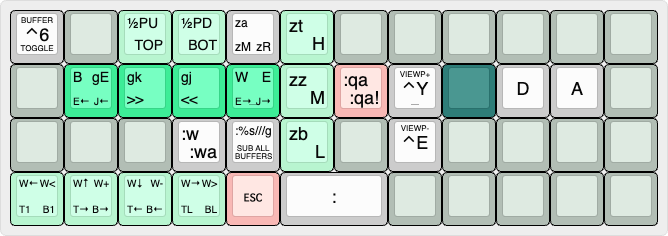
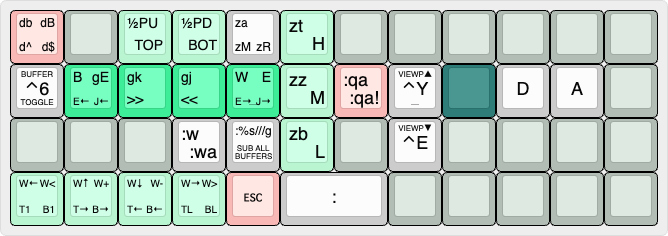
Added semantic deletion key for VIM layers; fixed LOWER diagram; docs updated

Changed region(s): [[0.0, 0.0297, 0.1198, 0.5042], [0.5988, 0.5042, 0.6587, 0.5636], [0.5988, 0.2966, 0.6587, 0.3263]]

diff --git a/rgb.c b/rgb.c
@@ -245,11 +245,11 @@ bool rgb_matrix_indicators_user(void) {
          * ┌─────────┬─────────┬─────────┬─────────┬─────────┬─────────┬─────────┬─────────┬─────────┬─────────┬─────────┬─────────┐
          * │   CUT   │UNDO REDO│  PASTE  │  COPY   │         │         │ «|» ‹|› │ SEL ALL │  COPY   │  PASTE  │UNDO REDO│   CUT   │
          * ├─────────┼─────────┼─────────┼─────────┼─────────┼─────────┼─────────┼─────────┼─────────┼─────────┼─────────┼─────────┤
-         * │    °    │    \    │ ! ¡ ◌̃ ◌̈ │    _    │<<HOLD>> │         │ ? ¿ ◌̀ ◌́ │    ←    │    ↓    │    ↑    │    →    │  ZOOM+  │
+         * │    °    │    \    │ ! ¡ ◌̃ ◌̈ │    _    │<<HOLD>> │AppSwitch│ ? ¿ ◌̀ ◌́ │    ←    │    ↓    │    ↑    │    →    │  ZOOM+  │
          * ├─────────┼─────────┼─────────┼─────────┼─────────┼─────────┼─────────┼─────────┼─────────┼─────────┼─────────┼─────────┤
          * │         │         │         │         │         │         │ ◌̂ ◌̄ ◌̆ ◌̌ │DESKTOP ←│DESKTOP →│  TAB ←  │  TAB →  │  ZOOM-  │
          * ├─────────┼─────────┼─────────┼─────────┼─────────┼─────────┴─────────┼─────────┼─────────┼─────────┼─────────┼─────────┤
-         * │         │         │         │         │         │   -       –   —   │ , ; | & │         │         │         │ ZOOM RS │
+         * │         │         │         │         │         │   -       –   —   │ , ; | & │         │    ⇤    │    ⇥    │ ZOOM RS │
          * └─────────┴─────────┴─────────┴─────────┴─────────┴───────────────────┴─────────┴─────────┴─────────┴─────────┴─────────┘
          */
         case _ARR_R:
@@ -267,14 +267,14 @@ bool rgb_matrix_indicators_user(void) {
          * ┌─────────┬─────────┬─────────┬─────────┬─────────┬─────────┬─────────┬─────────┬─────────┬─────────┬─────────┬─────────┐
          * │   CUT   │UNDO REDO│  PASTE  │  COPY   │ SEL ALL │ «|» ‹|› │         │         │  COPY   │  PASTE  │UNDO REDO│   CUT   │
          * ├─────────┼─────────┼─────────┼─────────┼─────────┼─────────┼─────────┼─────────┼─────────┼─────────┼─────────┼─────────┤
-         * │  ZOOM+  │    ←    │    ↑    │    ↓    │    →    │ ? ¿ ◌̀ ◌́ │         │ <<HOLD>>│    _    │ ! ¡ ◌̃ ◌̈ │    \    │    °    │
+         * │  ZOOM+  │    ←    │    ↑    │    ↓    │    →    │ ? ¿ ◌̀ ◌́ │AppSwitch│ <<HOLD>>│    _    │ ! ¡ ◌̃ ◌̈ │    \    │    °    │
          * ├─────────┼─────────┼─────────┼─────────┼─────────┼─────────┼─────────┼─────────┼─────────┼─────────┼─────────┼─────────┤
          * │  ZOOM-  │  TAB ←  │  TAB →  │DESKTOP ←│DESKTOP →│ ◌̂ ◌̄ ◌̆ ◌̌ │         │         │         │         │         │         │
          * ├─────────┼─────────┼─────────┼─────────┼─────────┼─────────┴─────────┼─────────┼─────────┼─────────┼─────────┼─────────┤
-         * │ ZOOM RS │         │         │         │ , ; | & │   -       –   —   │         │         │         │         │         │
+         * │ ZOOM RS │    ⇤    │    ⇥    │         │ , ; | & │   -       –   —   │         │         │         │         │         │
          * └─────────┴─────────┴─────────┴─────────┴─────────┴───────────────────┴─────────┴─────────┴─────────┴─────────┴─────────┘
          */
-        case _ARR_L:
+       case _ARR_L:
             rgb_off();
             // Held Key: Right Index Finger (Home Row)
             set_layer_key_color(LED_ROW1_RIGHT_INDEX);
@@ -287,9 +287,9 @@ bool rgb_matrix_indicators_user(void) {
 
         /* (Neo)Vim (RHS): Hold Left Middle Finger on Home Row
          * ┌─────────┬─────────┬─────────┬─────────┬─────────┬─────────┬─────────┬─────────┬─────────┬─────────┬─────────┬─────────┐
-         * │         │         │         │         │         │         │ zt    H │za  zM zR│ ½PD BOT │ ½PU TOP │         │ BUF TOGL│
+         * │         │         │         │         │         │         │ zt    H │za  zM zR│ ½PD BOT │ ½PU TOP │         │ DEL bB^$│
          * ├─────────┼─────────┼─────────┼─────────┼─────────┼─────────┼─────────┼─────────┼─────────┼─────────┼─────────┼─────────┤
-         * │         │    A    │    D    │<<HOLD>> │VIEWPORT+│:qa  :qa!│ zz    M │B gE E←J←│ gj  <<  │ gk  >>  │W E E→ J→│         │
+         * │         │    A    │    D    │<<HOLD>> │VIEWPORT+│:qa  :qa!│ zz    M │B gE E←J←│ gj   << │ gk   >> │W E E→ J→│ BUF TOGL│
          * ├─────────┼─────────┼─────────┼─────────┼─────────┼─────────┼─────────┼─────────┼─────────┼─────────┼─────────┼─────────┤
          * │         │         │         │         │VIEWPORT-│         │ zb    L │ :%s///g │ :w  :wa │         │         │         │
          * ├─────────┼─────────┼─────────┼─────────┼─────────┼─────────┴─────────┼─────────┼─────────┼─────────┼─────────┼─────────┤
@@ -297,7 +297,7 @@ bool rgb_matrix_indicators_user(void) {
          * └─────────┴─────────┴─────────┴─────────┴─────────┴───────────────────┴─────────┴─────────┴─────────┴─────────┴─────────┘
          * Bottom row: Move Vim window splits (Tap), resize (2xTap), change buffers (Hold), change tabs (Tap+Hold)
          */
-        case _VIM_R:
+       case _VIM_R:
             rgb_off();
             // Held Key: Left Middle Finger (Home Row)
             set_layer_key_color(LED_ROW1_LEFT_MIDDLE);
@@ -312,9 +312,9 @@ bool rgb_matrix_indicators_user(void) {
 
         /* (Neo)Vim (LHS): Hold Right Middle Finger on Home Row
          * ┌─────────┬─────────┬─────────┬─────────┬─────────┬─────────┬─────────┬─────────┬─────────┬─────────┬─────────┬─────────┐
-         * │ BUF TOGL│         │ ½PU TOP │ ½PD BOT │za  zM zR│ zt    H │         │         │         │         │         │         │
+         * │ DEL bB^$│         │ ½PU TOP │ ½PD BOT │za  zM zR│ zt    H │         │         │         │         │         │         │
          * ├─────────┼─────────┼─────────┼─────────┼─────────┼─────────┼─────────┼─────────┼─────────┼─────────┼─────────┼─────────┤
-         * │         │h Ed← Ju←│ gk   >> │ gj   << │l Ed→ Jp→│ zz    M │:qa  :qa!│VIEWPORT+│ <<HOLD>>│    D    │    A    │         │
+         * │ BUF TOGL│B gE E←J←│ gk   >> │ gj   << │W E E→ J→│ zz    M │:qa  :qa!│VIEWPORT+│ <<HOLD>>│    D    │    A    │         │
          * ├─────────┼─────────┼─────────┼─────────┼─────────┼─────────┼─────────┼─────────┼─────────┼─────────┼─────────┼─────────┤
          * │         │         │         │   :w    │ :%s///g │ zb    L │         │VIEWPORT-│         │         │         │         │
          * ├─────────┼─────────┼─────────┼─────────┼─────────┼─────────┴─────────┼─────────┼─────────┼─────────┼─────────┼─────────┤

diff --git a/keymap.c b/keymap.c
@@ -162,9 +162,9 @@ const uint16_t PROGMEM keymaps[][MATRIX_ROWS][MATRIX_COLS] = {
 
 /* (Neo)Vim (RHS): Hold Left Middle Finger on Home Row
  * ┌─────────┬─────────┬─────────┬─────────┬─────────┬─────────┬─────────┬─────────┬─────────┬─────────┬─────────┬─────────┐
- * │         │         │         │         │         │         │ zt    H │za  zM zR│ ½PD BOT │ ½PU TOP │         │ BUF TOGL│
+ * │         │         │         │         │         │         │ zt    H │za  zM zR│ ½PD BOT │ ½PU TOP │         │ DEL bB^$│
  * ├─────────┼─────────┼─────────┼─────────┼─────────┼─────────┼─────────┼─────────┼─────────┼─────────┼─────────┼─────────┤
- * │         │    A    │    D    │<<HOLD>> │VIEWPORT+│:qa  :qa!│ zz    M │B gE E←J←│ gj   << │ gk   >> │W E E→ J→│         │
+ * │         │    A    │    D    │<<HOLD>> │VIEWPORT+│:qa  :qa!│ zz    M │B gE E←J←│ gj   << │ gk   >> │W E E→ J→│ BUF TOGL│
  * ├─────────┼─────────┼─────────┼─────────┼─────────┼─────────┼─────────┼─────────┼─────────┼─────────┼─────────┼─────────┤
  * │         │         │         │         │VIEWPORT-│         │ zb    L │ :%s///g │ :w  :wa │         │         │         │
  * ├─────────┼─────────┼─────────┼─────────┼─────────┼─────────┴─────────┼─────────┼─────────┼─────────┼─────────┼─────────┤
@@ -173,17 +173,17 @@ const uint16_t PROGMEM keymaps[][MATRIX_ROWS][MATRIX_COLS] = {
  * Bottom row: Move Vim window splits (Tap), resize (2xTap), change buffers (Hold), change tabs (Tap+Hold)
  */
 [_VIM_R] = LAYOUT_planck_mit(
-    ____, ____,    ____,    ____, ____,    ____, HIGH, FOLD,   HALF_PGDN, HALF_PGUP, ____, BUF_TOGGLE,
-    ____, S(KC_A), S(KC_D), ____, C(KC_Y), QUIT, MID,  B,      GJ,        GK,        W,    ____,
+    ____, ____,    ____,    ____, ____,    ____, HIGH, FOLD,   HALF_PGDN, HALF_PGUP, ____, VIM_DEL,
+    ____, S(KC_A), S(KC_D), ____, C(KC_Y), QUIT, MID,  B,      GJ,        GK,        W,    BUF_TOGGLE,
     ____, ____,    ____,    ____, C(KC_E), ____, LOW,  SUB,    WRITE,     ____,      ____, ____,
     ____, ____,    ____,    ____, ____,     KC_COLN,   KC_ESC, WINL,      WIND,      WINU, WINR
 ),
 
 /* (Neo)Vim (LHS): Hold Right Middle Finger on Home Row
  * ┌─────────┬─────────┬─────────┬─────────┬─────────┬─────────┬─────────┬─────────┬─────────┬─────────┬─────────┬─────────┐
- * │ BUF TOGL│         │ ½PU TOP │ ½PD BOT │za  zM zR│ zt    H │         │         │         │         │         │         │
+ * │ DEL bB^$│         │ ½PU TOP │ ½PD BOT │za  zM zR│ zt    H │         │         │         │         │         │         │
  * ├─────────┼─────────┼─────────┼─────────┼─────────┼─────────┼─────────┼─────────┼─────────┼─────────┼─────────┼─────────┤
- * │         │B gE E←J←│ gk   >> │ gj   << │W E E→ J→│ zz    M │:qa  :qa!│VIEWPORT+│ <<HOLD>>│    D    │    A    │         │
+ * │ BUF TOGL│B gE E←J←│ gk   >> │ gj   << │W E E→ J→│ zz    M │:qa  :qa!│VIEWPORT+│ <<HOLD>>│    D    │    A    │         │
  * ├─────────┼─────────┼─────────┼─────────┼─────────┼─────────┼─────────┼─────────┼─────────┼─────────┼─────────┼─────────┤
  * │         │         │         │   :w    │ :%s///g │ zb    L │         │VIEWPORT-│         │         │         │         │
  * ├─────────┼─────────┼─────────┼─────────┼─────────┼─────────┴─────────┼─────────┼─────────┼─────────┼─────────┼─────────┤
@@ -192,8 +192,8 @@ const uint16_t PROGMEM keymaps[][MATRIX_ROWS][MATRIX_COLS] = {
  * Bottom row: Move Vim window splits (Tap), resize (2xTap), change buffers (Hold), change tabs (Tap+Hold)
  */
 [_VIM_L] = LAYOUT_planck_mit(
-    BUF_TOGGLE, ____, HALF_PGUP, HALF_PGDN, FOLD,   HIGH, ____, ____,    ____, ____,    ____,    ____,
-    ____,       B,    GK,        GJ,        W,      MID,  QUIT, C(KC_Y), ____, S(KC_D), S(KC_A), ____,
+    VIM_DEL,    ____, HALF_PGUP, HALF_PGDN, FOLD,   HIGH, ____, ____,    ____, ____,    ____,    ____,
+    BUF_TOGGLE, B,    GK,        GJ,        W,      MID,  QUIT, C(KC_Y), ____, S(KC_D), S(KC_A), ____,
     ____,       ____, ____,      WRITE,     SUB,    LOW,  ____, C(KC_E), ____, ____,    ____,    ____,
     WINL,       WINU, WIND,      WINR,      KC_ESC,   KC_COLN,  ____,    ____, ____,    ____,    ____
 ),

diff --git a/tap_dance/td_vim.c b/tap_dance/td_vim.c
@@ -354,6 +354,37 @@ void sub_reset(tap_dance_state_t *state, void *user_data) {
 }
 
 // ────────────────────────────────
+// TD_VIM_DEL   `db` `dB` `d^` `d$`
+// ────────────────────────────────
+
+// Instance of 'td_tap_t' for the TD_VIM_DEL tap and hold dance.
+static td_tap_t vim_del_tap_state = {
+    .is_press_action = true,
+    .state = TD_NONE
+};
+
+// Send the appropriate Vim command for TD_VIM_DEL
+void vim_del_finished(tap_dance_state_t *state, void *user_data) {
+    vim_del_tap_state.state = cur_dance(state);
+    switch (vim_del_tap_state.state) {
+        case TD_SINGLE_TAP:  vim_delete_macro(DEL_PREV_WORD);     break; // `db` delete previous word
+        case TD_DOUBLE_TAP:  vim_delete_macro(DEL_PREV_BIG_WORD); break; // `dB` delete previous WORD
+        case TD_DOUBLE_HOLD: vim_delete_macro(DEL_BOL);           break; // `d^` delete BOL
+        case TD_SINGLE_HOLD: vim_delete_macro(DEL_EOL);           break; // `d$` delete EOL
+        case TD_DOUBLE_SINGLE_TAP:
+            vim_delete_macro(DEL_PREV_WORD);
+            vim_delete_macro(DEL_PREV_WORD);
+            break;
+        default: break;
+    }
+}
+
+// Release any keys pressed by TD_FOLD and reset the state
+void vim_del_reset(tap_dance_state_t *state, void *user_data) {
+    vim_del_tap_state.state = TD_NONE;
+}
+
+// ────────────────────────────────
 // TD_FOLD           `za` `zM` `zR`
 // ────────────────────────────────
 

diff --git a/tap_dance/tap_dance_actions.h b/tap_dance/tap_dance_actions.h
@@ -72,6 +72,7 @@ enum {                // │  Tap   │ 2xTap  │Tap+Hold│  Hold  │ Notes
                       // │        │        │        │        │
     TD_WRITE,         // │   :w   │        │        │  :wa   │ Vim: Write/save current buffer on Tap; write/save all open buffers on Hold
     TD_SUB,           // │ :%s///g│        │        │:bufdo..│ Vim: substitute all in current buffer on Tap; substitute in all buffers on Hold
+    TD_VIM_DEL,       // │   db   │   dB   │   d^   │   d$   │ Vim: delete word/WORD/BOL/EOL
     TD_FOLD,          // │   za   │        │   zM   │   zR   │ Vim: toggle fold under cursor under Tap; close all folds on Tap+Hold; open all folds on Hold
     TD_QUIT,          // │  :qa   │        │        │  :qa!  │ Vim: Safely quit all on Tap; Quit all w/o saving buffers on Hold
                       // │        │        │        │        │

diff --git a/macros/mac_vim.c b/macros/mac_vim.c
@@ -296,3 +296,25 @@ void vim_buffer_toggle_macro(void) {
 
     mod_state_restore(&saved);
 }
+
+// Deletion actions
+void vim_delete_macro(const delete_t del_action) {
+    mod_state_t saved = mod_state_save_and_clear();
+
+    // Move cursor one column to the right to mimic standard OS deletion behavior
+    if (del_action == DEL_PREV_WORD || del_action == DEL_PREV_BIG_WORD) {
+        tap_code(KC_RGHT);
+    }
+
+    vim_esc_helper();
+    tap_code(KC_D);
+    switch (del_action) {
+        case DEL_PREV_WORD:     tap_code(KC_B);      break; // `db`
+        case DEL_PREV_BIG_WORD: tap_code16(S(KC_B)); break; // `dB`
+        case DEL_BOL:           tap_code16(KC_CIRC); break; // `d^`
+        case DEL_EOL:           tap_code16(KC_DLR);  break; // `d$`
+        default: break;
+    }
+
+    mod_state_restore(&saved);
+}

diff --git a/macros/mac_vim.h b/macros/mac_vim.h
@@ -46,6 +46,14 @@ typedef enum {
     VC_SUB_BUF_GLOBAL  // `:bufdo %s///g | update` (sub in open buffers)
 } vim_commandline_t;
 
+// Vim deletion actions
+typedef enum {
+    DEL_PREV_WORD,     // `db` (delete previous word)
+    DEL_PREV_BIG_WORD, // `dB` (delete previous WORD)
+    DEL_BOL,           // `d^` (delete to beginning of current line)
+    DEL_EOL            // `d$` (delete to end of current line)
+} delete_t;
+
 // Vim fold actions
 typedef enum {
     FOLD_TOGGLE,    // `za`
@@ -94,3 +102,6 @@ void vim_fold_macro(const fold_t fold);
 
 // Switches to previously active buffer (CTRL-6)
 void vim_buffer_toggle_macro(void);
+
+// Deletion actions
+void vim_delete_macro(const delete_t del_action);

diff --git a/tap_dance/tap_dance_actions.c b/tap_dance/tap_dance_actions.c
@@ -85,6 +85,7 @@ tap_dance_action_t tap_dance_actions[TD_COUNT] = {
     [TD_WINR]      = ACTION_TAP_DANCE_FN_ADVANCED(NULL, winr_finished,      winr_reset),
 
     [TD_SUB]       = ACTION_TAP_DANCE_FN_ADVANCED(NULL, sub_finished,      sub_reset),
+    [TD_VIM_DEL]   = ACTION_TAP_DANCE_FN_ADVANCED(NULL, vim_del_finished,  vim_del_reset),
     [TD_FOLD]      = ACTION_TAP_DANCE_FN_ADVANCED(NULL, fold_finished,     fold_reset),
     [TD_WRITE]     = ACTION_TAP_DANCE_FN_ADVANCED(NULL, write_finished,    write_reset),
     [TD_QUIT]      = ACTION_TAP_DANCE_FN_ADVANCED(NULL, quit_finished,     quit_reset),

diff --git a/tap_dance/td_vim.h b/tap_dance/td_vim.h
@@ -52,6 +52,9 @@ void winr_reset(tap_dance_state_t *state, void *user_data);
 // TD_SUB
 void sub_finished(tap_dance_state_t *state, void *user_data);
 void sub_reset(tap_dance_state_t *state, void *user_data);
+// TD_VIM_DEL
+void vim_del_finished(tap_dance_state_t *state, void *user_data);
+void vim_del_reset(tap_dance_state_t *state, void *user_data);
 // TD_FOLD
 void fold_finished(tap_dance_state_t *state, void *user_data);
 void fold_reset(tap_dance_state_t *state, void *user_data);

diff --git a/keymap.h b/keymap.h
@@ -119,6 +119,7 @@
 #define WINR      TD(TD_WINR)
 
 #define SUB       TD(TD_SUB)
+#define VIM_DEL   TD(TD_VIM_DEL)
 #define FOLD      TD(TD_FOLD)
 #define WRITE     TD(TD_WRITE)
 #define QUIT      TD(TD_QUIT)

diff --git a/DESIGN.md b/DESIGN.md
@@ -69,7 +69,7 @@ The layout is optimized around English letter frequency, English‑centric n‑g
 
 Most custom keymaps use only a few layers, often three or four, to keep the learning curve shallow and the cognitive load low. Spacecentricity takes the opposite approach. It has over a dozen layers, many of them bilaterally mirrored, with possibly more as the design evolves. Not every key on every layer is essential, but each layer has a clear purpose, and many exist to group related behaviors or fill unused real estate with logical themes. The result is a system that favors expressiveness and modal clarity over minimalism.
 
-If a key or action ends up unused, I’ll either replace it with something more useful or make it inert with a `KC_NO` “no operation” signal.
+If a key or action ends up unused, misfired, or mistyped too often, I’ll eventually replace it with something more useful or disable it with a `KC_NO` “no operation” signal. Layers should earn their keep; anything that adds friction without providing meaningful value gets refined or removed.
 
 ### Right-Hand Oriented
 
@@ -104,7 +104,7 @@ This keymap is designed for users of Vim, [Neovim](https://neovim.io/), and [Ema
 
 Tap dances are used extensively to expose extra functionality without increasing finger travel. Many symbol keys support multi‑tap or tap‑hold behaviors that surface common Vim motions, programming operators, and punctuation variants.
 
-Tap dances are grouped logically so they’re relatively easy to remember. And when a key has room for more functionality, I’m not shy about giving it more to do — even if that introduces a bit of redundancy. I’ve also tried to make specialized characters on U.S. keyboards, such as the ellipsis (`…`), yen/yuan (`¥`), and approximation (`≈`), accessible without relying on keyboard shortcuts or navigating operating system menus. These aren’t strictly necessary, but they’re the kind of small design flourishes that make the keymap feel more complete.
+They’re organized in logical clusters so they’re relatively easy to internalize. When a key has room for more functionality, I’m not shy about giving it more to do, even if that introduces a bit of redundancy. I’ve also made space for specialized characters that are awkward to type or hard to remember — the ellipsis (`…`), yen/yuan (`¥`), approximation (`≈`), and various diacritics for other languages — without relying on OS menus or obscure shortcuts. These aren’t strictly necessary, but they’re the kind of small design flourishes that make the keymap feel more complete.
 
 Here’s how I rank the typing difficulty of each tap dance:
 
@@ -181,9 +181,11 @@ This layer uses a modified Dvorak layout with a few intentional relocations base
 
 I briefly experimented with a QWERTY layer in a multi‑alpha setup, but dropped it quickly because QWERTY feels uncomfortable to me on ortholinear and column‑staggered boards. Fortunately, muscle memory stays separate enough that I can still type QWERTY on standard keyboards without issue. Of course, YMMV juggling multiple alpha maps and physical keyboard layouts.
 
-I’m also not using Colemak(-DH), Workman, or other modern ergonomic layouts. I originally learned Dvorak as an OS‑level setting on laptops, and it still feels like the most natural foundation for me. My preference is driven by comfort and RSI reduction rather than raw typing speed.
+I’m also not using Colemak(-DH), Workman, or other modern ergonomic layouts. I originally learned Dvorak as an OS‑level setting on laptops, and it still feels like the most natural foundation for me. My preference is driven by comfort and RSI reduction rather than raw typing speed.[^alt-alpha]
 
-[^English-letter-frequency]: According to [Wikipedia](https://en.wikipedia.org/wiki/Letter_frequency), `u` and `c` appear at 2.8%, `i` at 7.0%, and `l` at 4.0%. These shifts may change the typing performance of some bigrams compared to their traditional positions. In practice, I haven’t noticed any negative effects—if anything, these placements feel more comfortable than those in Dvorak Simplified.
+[^English-letter-frequency]: According to [Wikipedia](https://en.wikipedia.org/wiki/Letter_frequency), `u` and `c` appear at 2.8%, `i` at 7.0%, and `l` at 4.0%. These relocations may alter the performance of some bigrams or trigrams compared to their traditional positions; I haven’t analyzed these effects formally. In practice, I haven’t noticed any drawbacks — if anything, the new placements feel more comfortable than those in Dvorak Simplified.
+
+[^alt-alpha]: Several modern ergonomic alpha layouts exist beyond Dvorak, including [Colemak](https://colemak.com/), [Colemak Mod-DH](https://colemakmods.github.io/mod-dh/), [Workman](https://workmanlayout.org/), Semimak, [Gallium](https://github.com/GalileoBlues/Gallium/), and the German‑optimized [Neo](https://www.neo-layout.org/) layout. These designs generally improve same‑finger avoidance, hand balance, and symbol ergonomics compared to both QWERTY and stock Dvorak. Spacecentricity uses a modified Dvorak base simply because it aligns well with my modal editing habits, thumb‑centric design, and long‑standing muscle memory. The broader principles in this keymap — mirrored layers, semantic editing, thumb‑driven modifiers, and modal workflows — can be adapted to any alpha layout, though the positions of core Vim commands would shift relative to my layout.
 
 #### Symbols
 
@@ -467,18 +469,18 @@ Holding either index finger on the home row activates a mirrored arrow‑navigat
 > **Apple macOS Setting**
 > 
 > To show the Application Switcher on all displays, run the following command in the terminal:
-> `defaults write com.apple.dock appswitcher-all-displays -bool true`  
+> 
+> `defaults write com.apple.dock appswitcher-all-displays -bool true`
 >
-> Then restart the Dock with:
-> `killall Dock`.[^macOS-app-switcher]
+> Then restart the Dock with: `killall Dock`.[^macOS-app-switcher]
 
 [^macOS-app-switcher]: macOS Application Switcher tip sourced from [StackOverflow](https://superuser.com/questions/670252/cmdtab-app-switcher-is-on-the-wrong-monitor).
 
 #### English Loanwords
 
-Tap dances on the arrow layers provide combining accents and extended punctuation, making it easy to type accented characters that appear in English [loanwords](https://en.wikipedia.org/wiki/Loanword)—most commonly from French, Spanish, and German, with a smaller set from Portuguese, where only a few words retain their original accents. This includes forms such as à, á, â, ä, é, í, ñ, ó, ö, ú, and others. The accessibility of accented characters reduces the need for users to memorize platform‑specific shortcuts or Unicode values.
+Tap dances on the arrow layers provide combining accents and extended punctuation, making it easy to type accented characters that appear in English [loanwords](https://en.wikipedia.org/wiki/Loanword). These words most commonly originate from French, Spanish, and German, with a smaller set from Portuguese, where only a few retain their original accents. This includes forms such as à, á, â, ä, é, í, ñ, ó, ö, ú, and others. The accessibility of accented characters reduces the need for users to memorize platform‑specific shortcuts or Unicode values.
 
-In contemporary English writing, accented forms appear more consistently than in the past. Modern style guides and digital typography increasingly preserve the original spelling of borrowed words, especially in food, culture, and proper names. As a result, accented loanwords such as à la, à propos, vis‑à‑vis, café, crème brûlée, cliché, touché, résumé, déjà vu, naïve, über, doppelgänger, jalapeño, piñata, and place names such as São Paulo, as well as personal names like Zoë, Chloë, José or Beyoncé, are now common in everyday text.
+In contemporary English writing, accented forms appear more consistently than in the past. Modern style guides and digital typography increasingly preserve the original spelling of borrowed words, especially in food, culture, and proper names. As a result, accented loanwords such as à la, à propos, vis-à-vis, voilà, café, crème brûlée, pâté, cliché, touché, résumé, déjà vu, naïve, über, doppelgänger, and jalapeño — along with place names like São Paulo and personal names like Zoë, Chloë, José, or Beyoncé — are now common in everyday text.
 
 ### Vim
 
@@ -488,7 +490,7 @@ In contemporary English writing, accented forms appear more consistently than in
 
 These mirrored layers are designed for use with a mostly vanilla Vim setup. The focus is on movement, navigation, and viewport adjustments to reduce editing friction and keep your hands anchored on home row.
 
-Assigning `Esc` to the thumbs provides multiple reliable ways to reach it from home position.
+Assigning `Esc` to the thumbs provides multiple reliable ways to reach it from home position. The deletion key in the top‑right corner follows the same semantic‑deletion philosophy as the `Backspace` and `Del` tap‑dance keys, but its motions are implemented using Vim’s native delete commands and therefore focus on word‑ and line‑level editing rather than character‑level deletion.
 
 Vim commands that benefit from an `Esc` prefix include a built‑in delay, and command‑line macros (`:`) use an additional delay. These pauses help accommodate plugin latency and improve execution reliability. Repeatable motions that rely on count prefixes are intentionally excluded to preserve `<count>movement` behavior.
 

diff --git a/CHANGELOG.md b/CHANGELOG.md
@@ -12,12 +12,15 @@
 
 ---
 
+## 2026-04/16-TH
+- Changed **Vim** layers: added semantic deletion key that mirrors `Backspace` and `Del`.
+
 ## 2026-04/15-WE
-- Changed `Backspace` and `Delete` keys to use semantic behaviors:
-  - Tap: delete character (`Backspace`/`Delete`)
+- Changed `Backspace` and `Del` keys to use semantic behaviors:
+  - Tap: delete character (`Backspace`/`Del`)
   - Tap-and-Hold: delete to beginning/end of line
   - Hold: Delete previous/next word
-- Change **Mouse** layer: 
+- Change **Mouse** layer:
   - Added mouse‑wheel keys on the right side of the lower row in a Vim‑style arrangement.
   - Added a `Backspace` tap‑dance key to the top‑right corner.
 
@@ -33,9 +36,9 @@
 - Added the **Doom Classic** layer (first draft). The layer is accessible via a tap on the **Mouse** layer, a center key on home row.
 - Updated arrow‑key layers and expanded multilingual support.
   - Added cursor‑centered angle quotation marks: `«|»` and `‹|›`.
-  - Added tap dance key on lower row for combining circumflex (`ˆ`) on tap, macron (`¯`) on double tap, breve (`˘`) on tap-and-hold, and caron (`ˇ`) on hold. On macOS, these require **ABC Extended** keyboard input set in the OS.  
+  - Added tap dance key on lower row for combining circumflex (`ˆ`) on tap, macron (`¯`) on double tap, breve (`˘`) on tap-and-hold, and caron (`ˇ`) on hold. On macOS, these require **ABC Extended** keyboard input set in the OS.
   - Reorganized combining accents: grave is now on `?`, tilde on `!`, improving mnemonic grouping.
-- Updated Markdown docs, including `DESIGN.md`. 
+- Updated Markdown docs, including `DESIGN.md`.
 
 ## 2026-04/10-FR
 - Initial release.

diff --git a/README.md b/README.md
@@ -250,6 +250,15 @@ Window‑resize commands omit the `Esc` prefix to preserve compatibility with `<
 | Tap | `zt`, `zz`, `zb` (scroll viewport to top / center / bottom) |
 | Hold | `H`, `M`, `L` (move cursor to top / middle / bottom of screen) |
 
+**Semantic Deletion Key**
+
+| Action | Behavior | Notes |
+|--------|----------|-------|
+| Tap | `db` (delete previous word) | Moves right one column to mimic standard OS word‑deletion behavior |
+| Double Tap | `dB` (delete previous WORD) | Also includes the right‑movement for consistency |
+| Tap-and-Hold | `d^` (delete to beginning of line) | Deletes everything back to the first non‑whitespace character |
+| Hold | `d$` (delete to end of line) | Deletes everything to the right of (and under) the cursor |
+
 **Folds**
 
 | Actions | Behavior |
